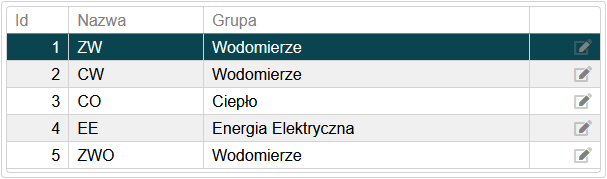
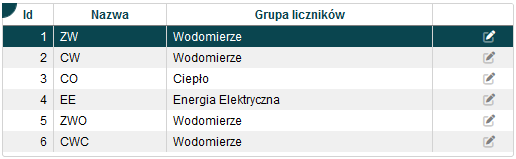
popr instr dod typ licz

Changed region(s): [[0.0, 0.0, 1.0, 1.0], [0.3101, 0.8302, 0.4961, 0.9308]]

diff --git a/administracyjne/liczniki/_posts/2020-07-30-Dodanie typu licznika do systemu.md b/administracyjne/liczniki/_posts/2020-07-30-Dodanie typu licznika do systemu.md
@@ -4,7 +4,7 @@ title: Dodanie typu licznika do systemu
 
 # Dodanie typu licznika do systemu
 
-Zazwyczaj typu liczników są od razu zdefiniowane w systemie, więc nie ma potrzeby ich dodawania. Są one wspólne dla wszystkich budynków w systemie. To właśnie im dodajemy odczyty. Aby dodać nowy typ liczników, należy przejść do:
+Zazwyczaj typu liczników są od razu zdefiniowane w systemie, więc nie ma potrzeby ich dodawania. Są one wspólne dla wszystkich budynków w systemie. To właśnie licznikom z odpowiednim typem dodajemy odczyty. Nie dodajemy typów wielokrotnie lub o bardzo podobnej nazwie. Aby dodać nowy typ liczników, należy przejść do:
 
 - Zakładka `Zasoby` > menu `Elementy` > `Typy liczników`.
 - Pole `ID` > wpisujemy unikalny numer typu.
